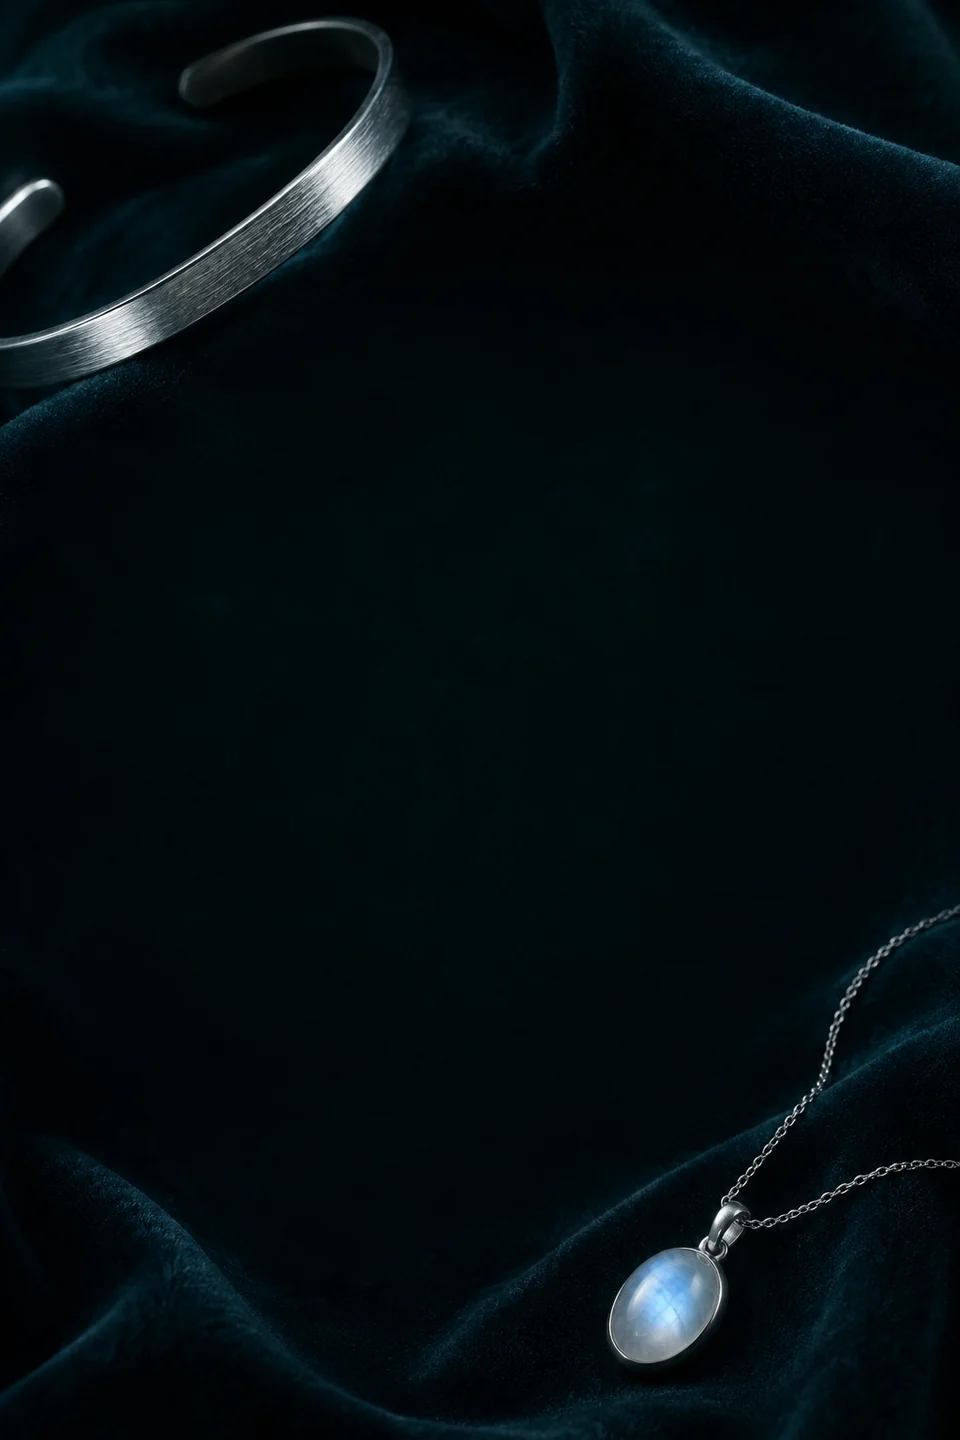
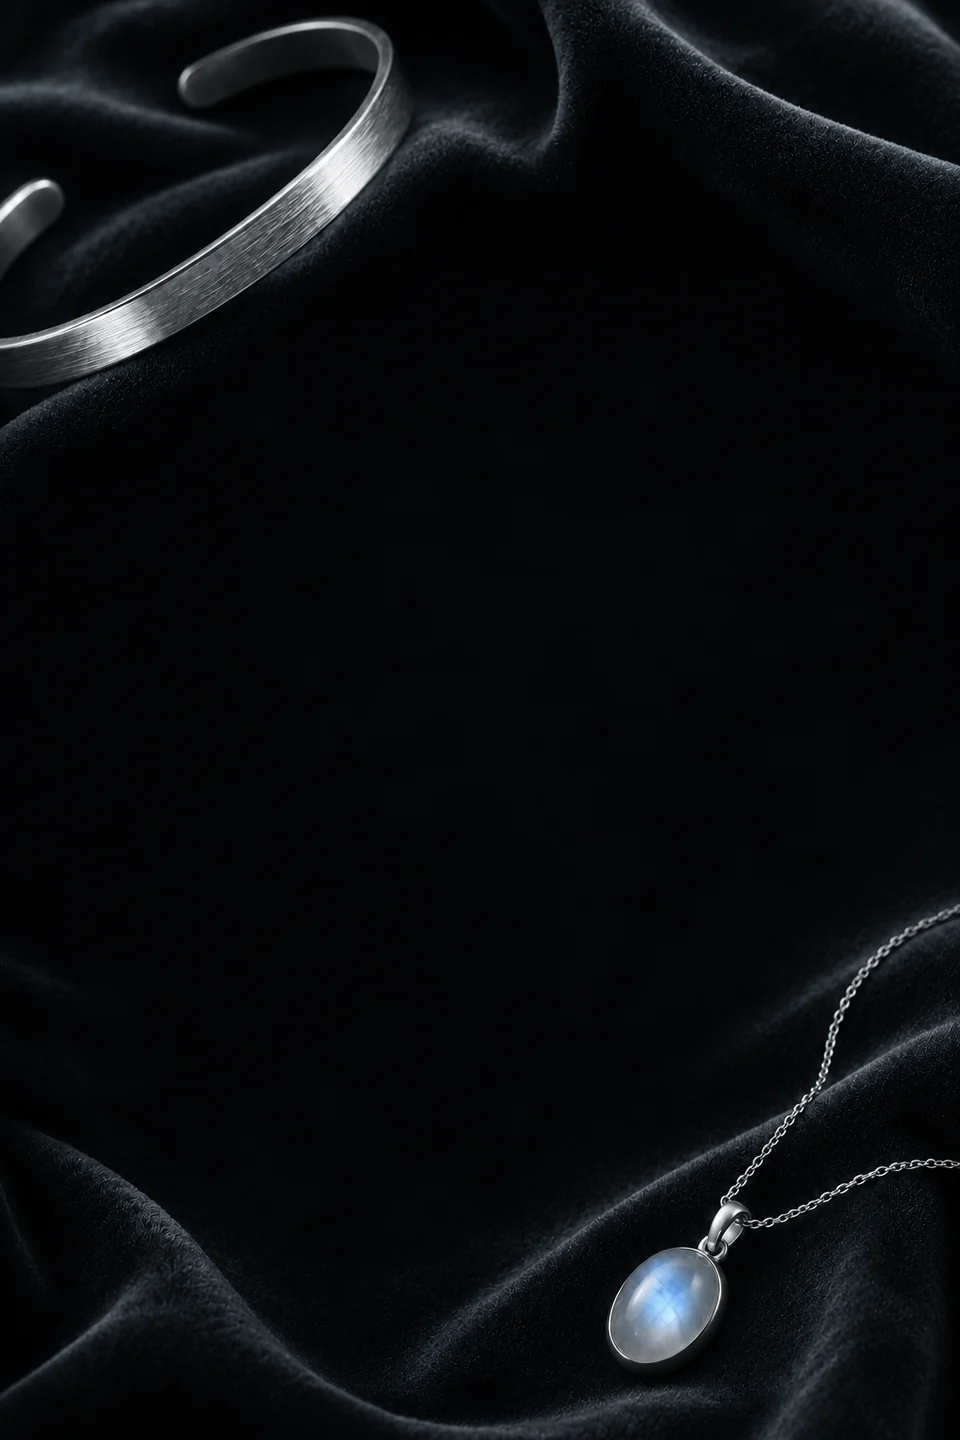
Match the About photography to the graphite hero palette

diff --git a/src/home.css b/src/home.css
@@ -192,7 +192,7 @@
 }
 
 .home-about-background::after {
-  background: radial-gradient(ellipse at center, #050b13a3 18%, #050b1366 50%, #050b1324 79%);
+  background: radial-gradient(ellipse at center, #080b10a3 18%, #080b1066 50%, #080b1024 79%);
 }
 
 .home-scene--about .home-scene-copy { padding-block: clamp(28px, 6svh, 76px); }
@@ -378,7 +378,7 @@
   }
 
   .home-about-background::after {
-    background: radial-gradient(ellipse 94% 63% at center, #050b13bc 24%, #050b137d 65%, #050b1324);
+    background: radial-gradient(ellipse 94% 63% at center, #080b10bc 24%, #080b107d 65%, #080b1024);
   }
 
   .home-scene--about .home-scene-copy p { line-height: 1.43; }
